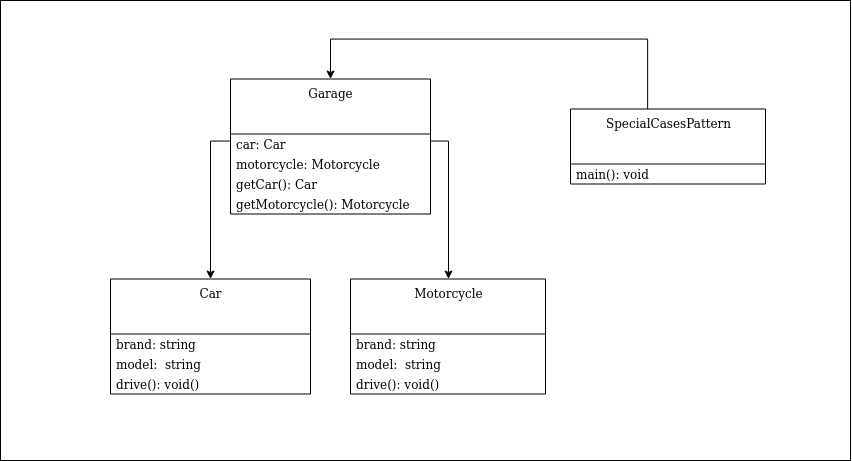
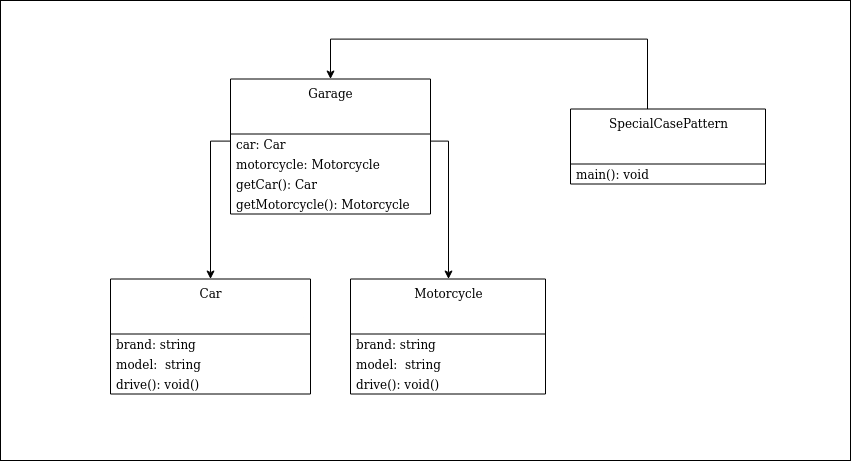
Partial commit

diff --git a/articles/clean-code-error-handling.md b/articles/clean-code-error-handling.md
@@ -251,15 +251,24 @@ def save(client):
     </p>
     <h3>Stylish ways of dealing with exceptional cases</h3>
     <p>
-        The vast majority of the cases our exceptions have almost the same purpouses: to let us now that a interruption occured and the details about it.
+        The vast majority of the cases our exceptions have almost the same purpouses: to let us now that an interruption occured and the details about it.
         But sometimes we actually need more than that to be done but the code starts to get mixed up again, I mean, the error handling are supposed to
-        be separated from the logic of our blocks, exposing it's statements so that the caller can identify things easily.
+        be separated from the logic block, exposing it's statements so that the reader (the programmers) can identify things easily.
     </p>
     <p>
-        Some exceptions leads the block to a catch where there is more logic behind the error handling. This can be either to deals with null objects returned from
+        Some exceptions leads to a catch where there is more logic behind the error handling. This can be either to deals with null objects returned from
         one of the function's statements or to deals with more than one type of object on the same function.
     </p>
-    <h4>The Special Cases Pattern</h4>
+    <p>
+        There are patterns that can help us on those cases. Help us to keep the code clean and, at the same time, robust.
+    </p>
+    <h4>The Special Case Pattern</h4>
+    <p>
+        For those cases where the caller has to deals with more than one type of object, by "type" I mean that the objects were created based on different
+        templates of code (types or classes), putting the preferable object into the <i>try block</i> and the one object into the <i>catch block</i> is one option.
+        <br>
+        This is an example of this scencario:
+    </p>
     <img class="post-img" src="images/clean-code-error-handling/SpecialCasePattern-1.png" alt="">
 <pre class="brush: python">
 <code>class Garage:
@@ -291,6 +300,19 @@ if __name__ == "__main__":
     except AttributeError:
         garage.motorcycle.drive()</code>
 </pre>
+    <p>
+        If you are familiar with the OOP principles you might be thinking that this is more of a desing issue than a option.
+        <br>
+        I  aggree...but even though this can be considere a "design issue" it's very common...
+    </p>
+    <p>
+        On this pattern we create an abstract class with the data and behavior members we need and both classes extends it. 
+        In this way, we can create objects of different types but they are based on the same base template, they are "brothers" . The user of those objects
+        always returns the parent type and is responsible for returning one of it's children.
+    </p>
+    <p>
+        Now the caller has only to deals with the base type (the parent), regardless of the object returned.
+    </p>
     <img class="post-img" src="images/clean-code-error-handling/SpecialCasePattern-1.1.png" alt="">
     <h4>The Null Object Desing pattern</h4>
     <img class="post-img" src="images/clean-code-error-handling/NullObjectPattern-1.png" alt="">
